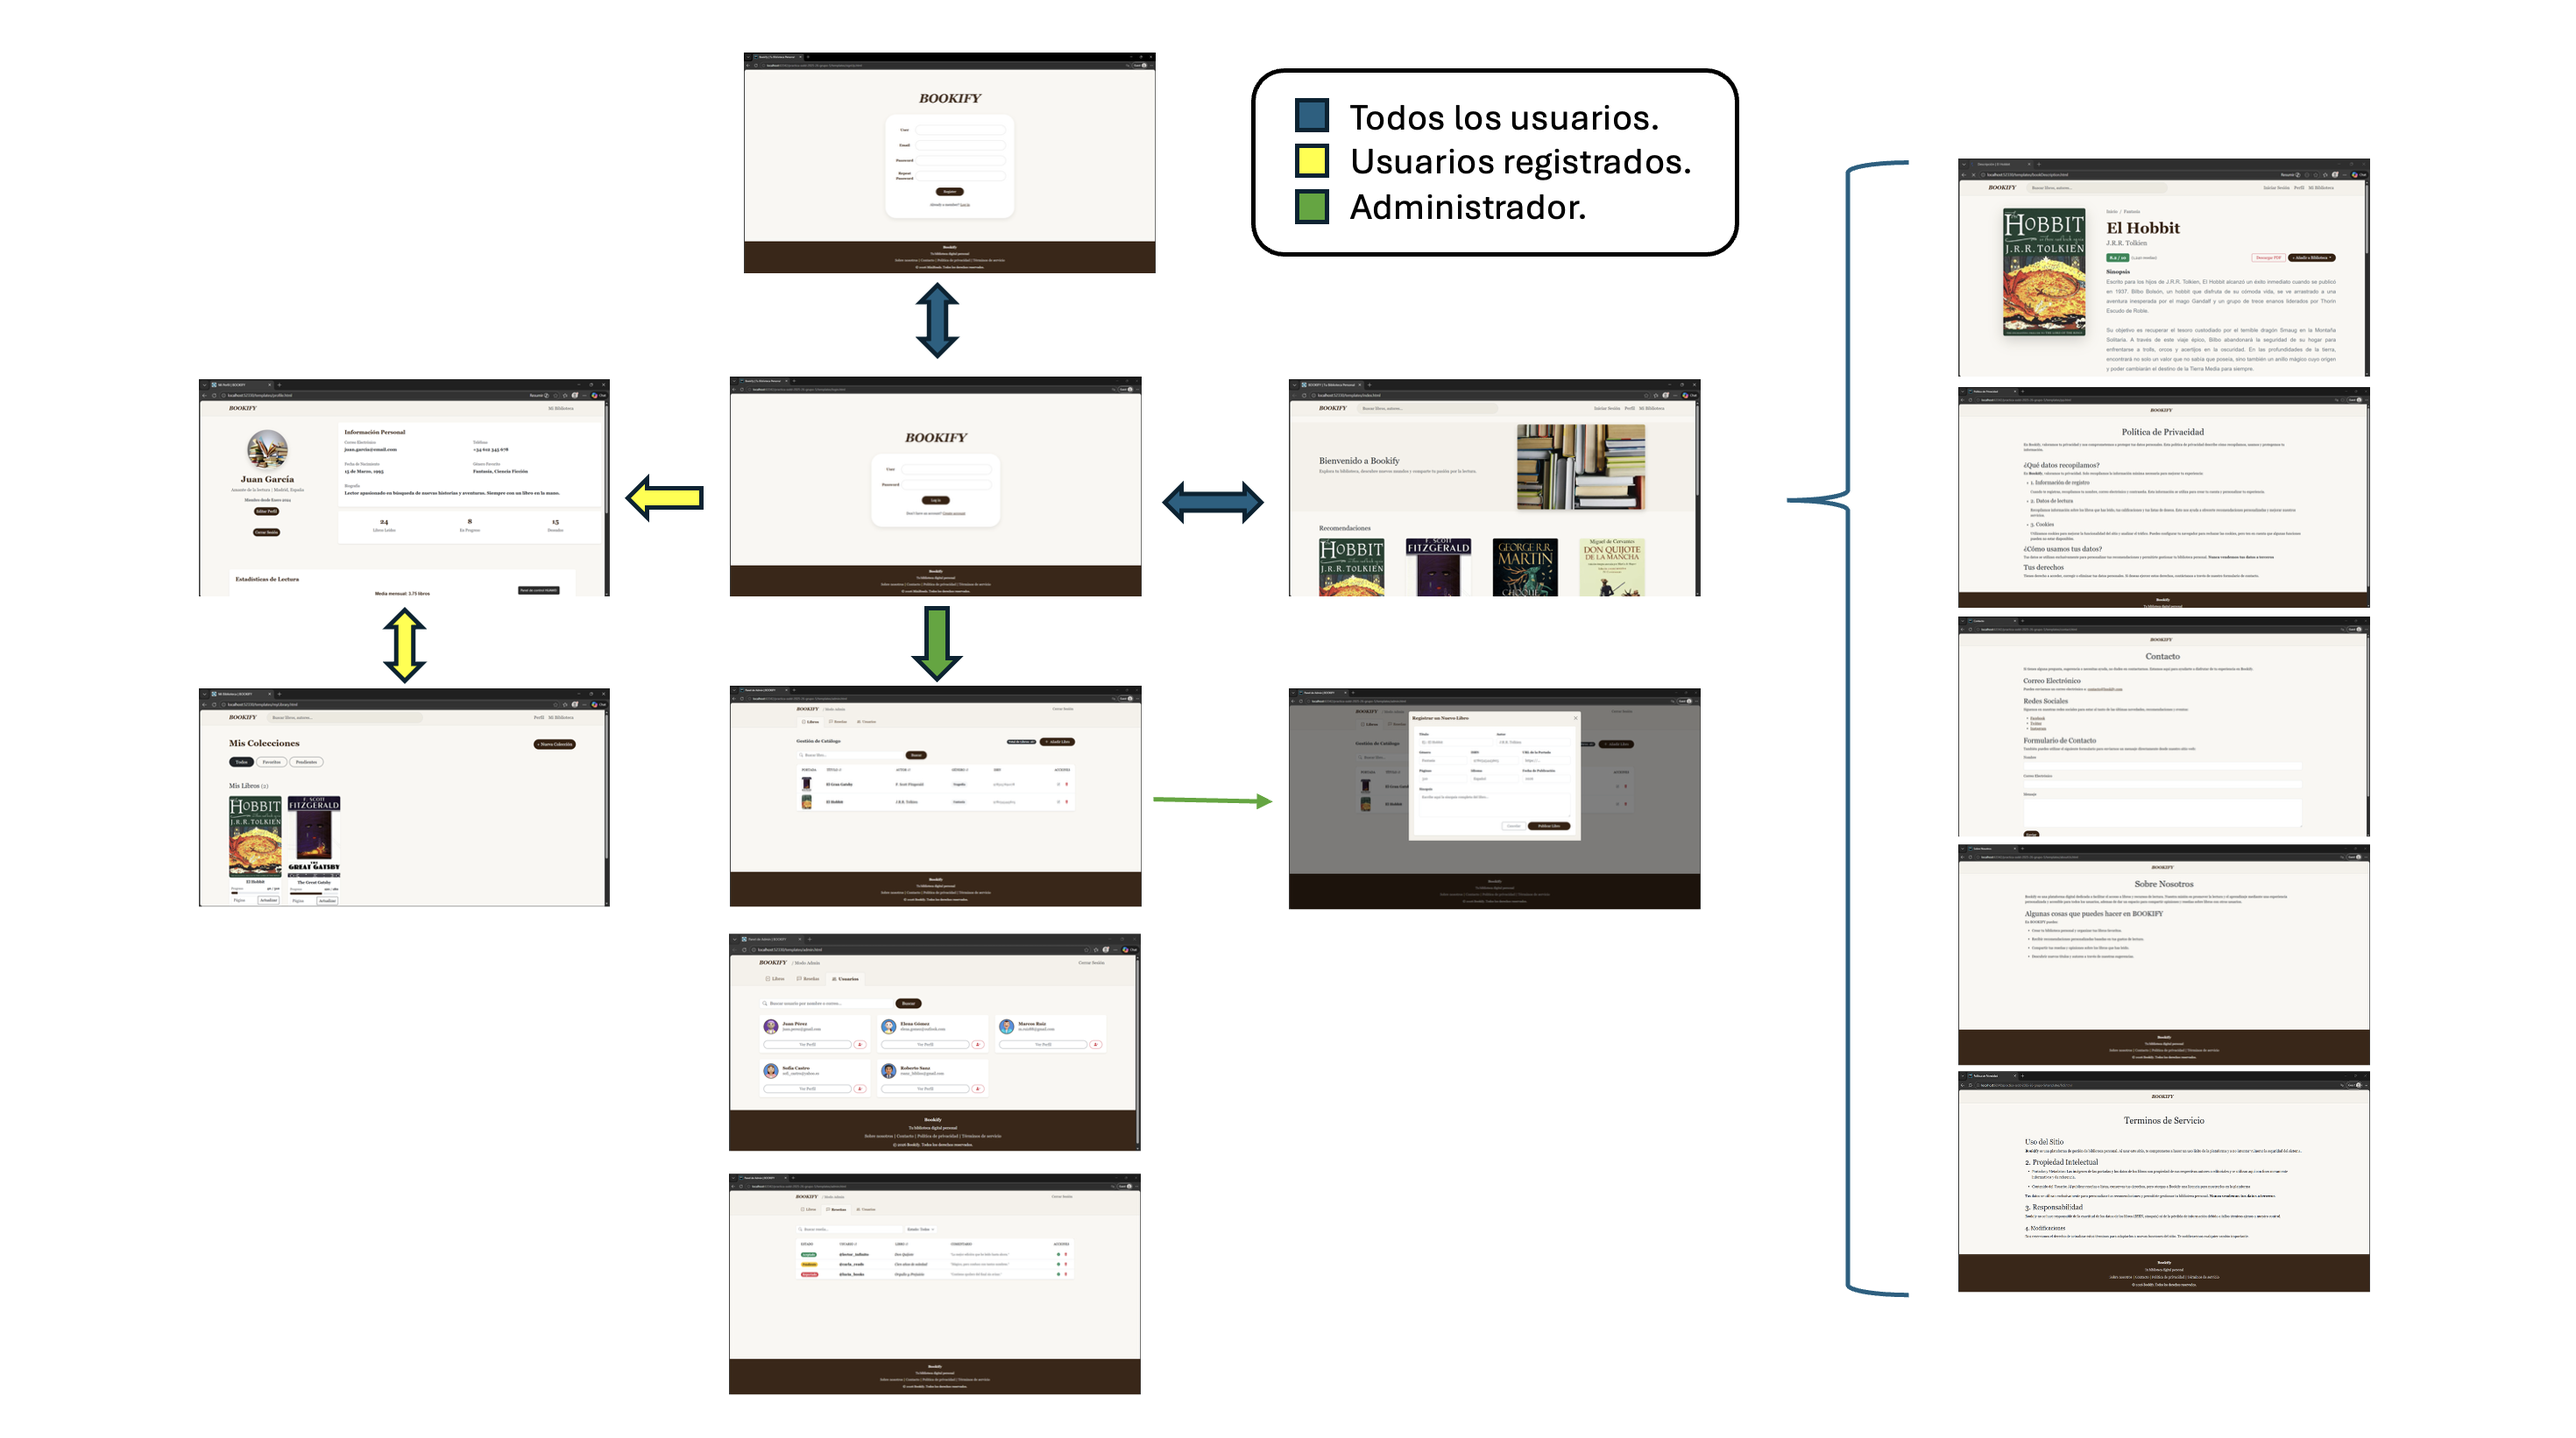
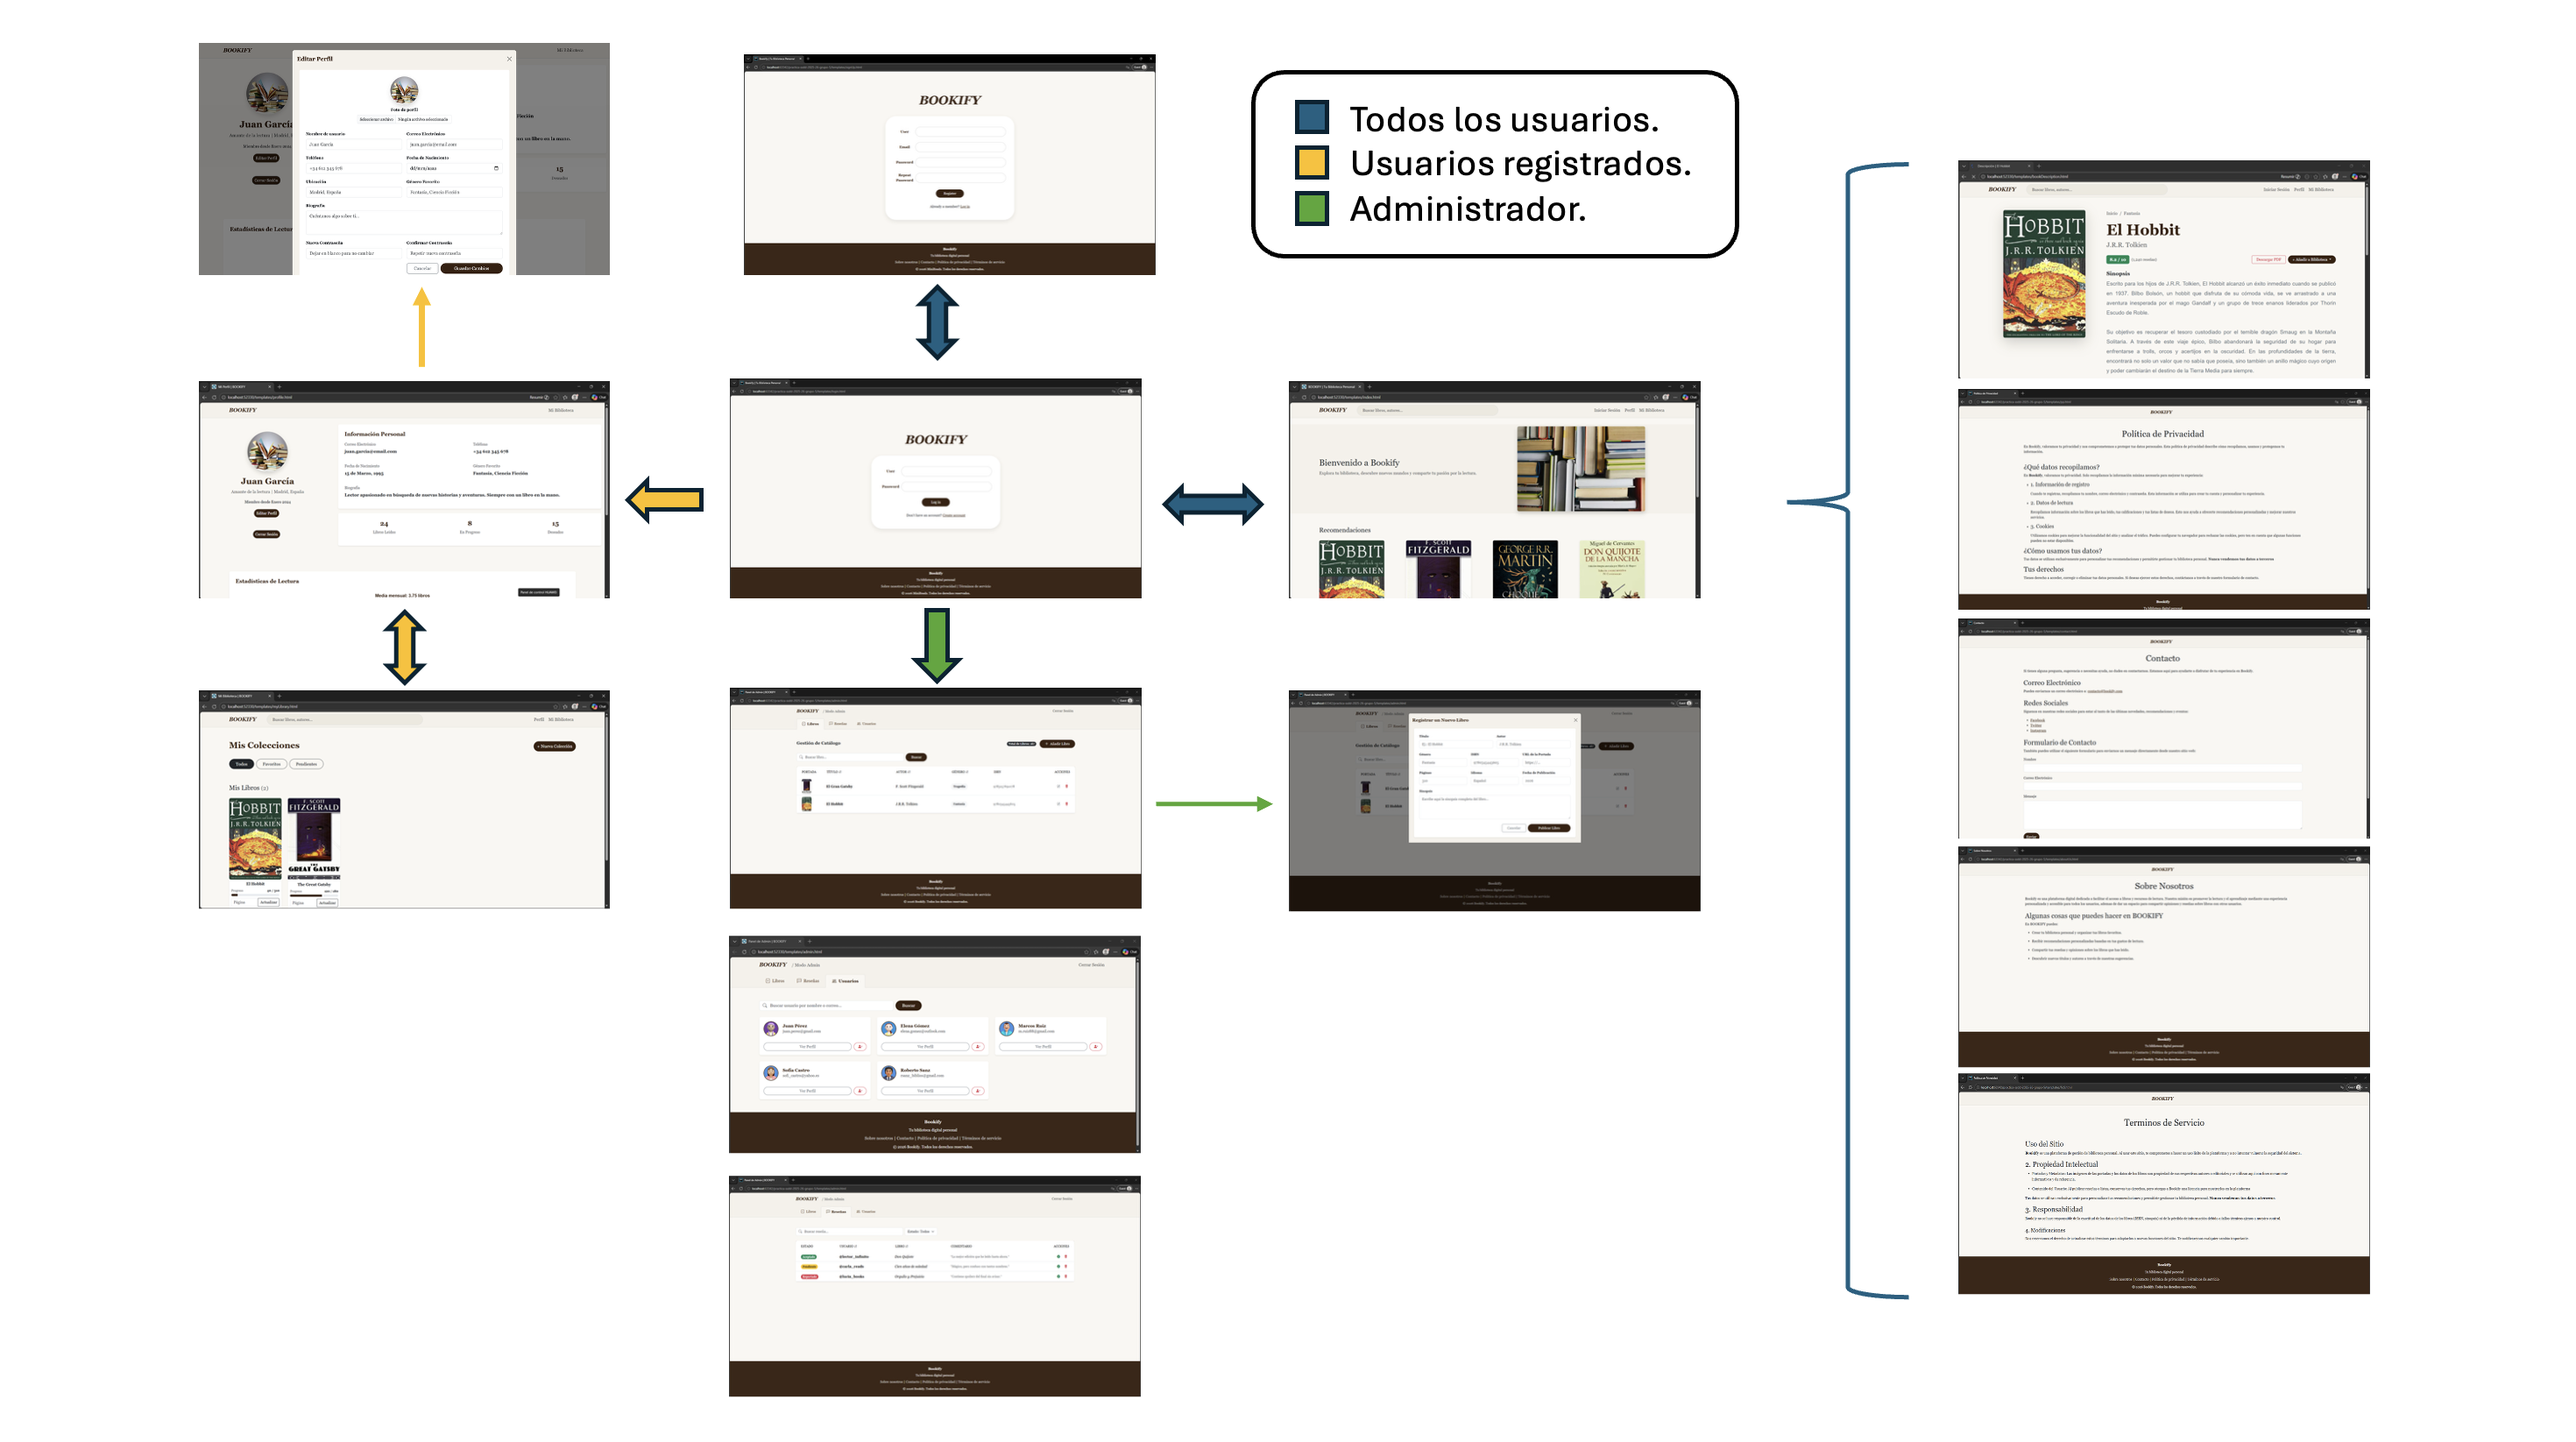
Add user profile edit image and update README with new navigation diagrams

diff --git a/README.md b/README.md
@@ -89,7 +89,9 @@ This diagram shows how to navigate between the different pages of the applicatio
 
 #### **4. User Profile Page**
 ![User Profile page](static/imgs/navigation_imgs/profile.png)
+![User Profile page](static/imgs/navigation_imgs/editProfile.png)
 > User profile page showing personal information, reading statistics, and a section to manage collections.
+
 #### **5. My Library Page**
 ![My Library page](static/imgs/navigation_imgs/myLibrary.png)
 > User's personal library page, where they can view and manage their book collections.
@@ -97,8 +99,10 @@ This diagram shows how to navigate between the different pages of the applicatio
 #### **6. Book Description Page**
 ![Book Description page](static/imgs/navigation_imgs/bookDescription.png)
 > Description page for a specific book, showing details such as title, author, synopsis, genre, and a user reviews section. It also includes a button to add the book to a personal collection and a star rating system.
+
 #### **7. Admin Panel Page**
 > Administration panel page, accessible only to users with an administrator role. Includes sections to manage books, users, and reviews.
+
 ##### **7.1 Admin Panel Page - Books**
 ![Admin Panel page](static/imgs/navigation_imgs/admin1.png)
 ![Admin Panel page](static/imgs/navigation_imgs/register-book.png)
@@ -108,9 +112,11 @@ This diagram shows how to navigate between the different pages of the applicatio
 ##### **7.2 Admin Panel Page - Reviews**
 ![Admin Panel page](static/imgs/navigation_imgs/admin2.png)
 > Review management section, where the administrator can moderate reviews posted by users, deleting those that are inappropriate or violate platform policies. Includes a list of reviews and action options for each.
+
 ##### **7.3 Admin Panel Page - Users**
 ![Admin Panel page](static/imgs/navigation_imgs/admin3.png)
 > User management section, where the administrator can view the list of registered users, edit their roles, or delete accounts if necessary. Includes a table with user information and action options.
+
 #### **8. Terms of Service Page**
 ![Terms of Service page](static/imgs/navigation_imgs/ToS.png)
 > Terms of Service page detailing the platform's conditions of use, including rights.
